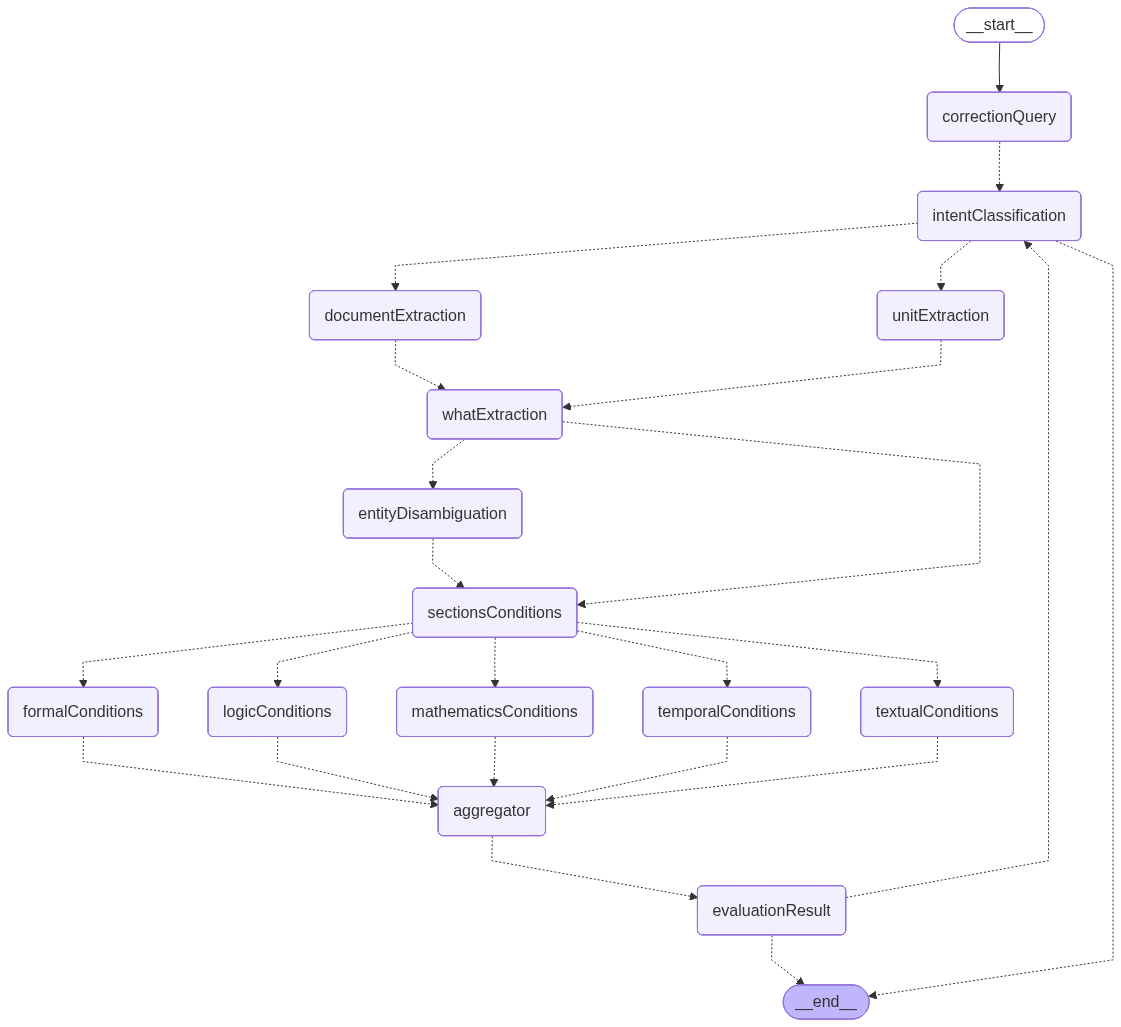
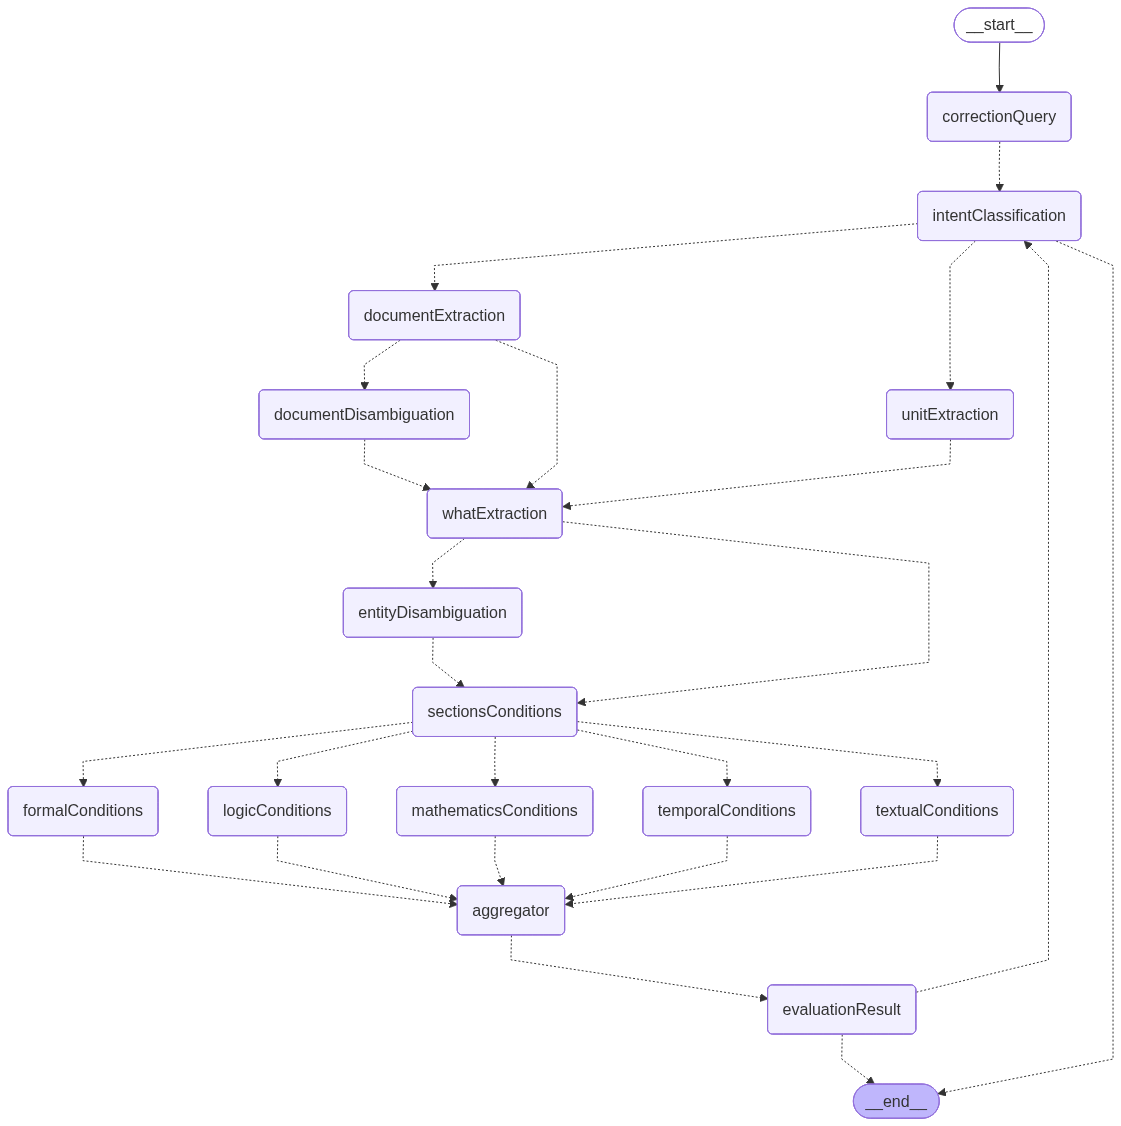
Added Document Disambiguation in case of ["contesto"] during Document Extraction

diff --git a/rewriting_system/graph.py b/rewriting_system/graph.py
@@ -7,8 +7,11 @@ from langgraph.graph import StateGraph
 from langchain_core.prompts import ChatPromptTemplate
 from langchain_core.output_parsers import StrOutputParser
 
+from storage import Storage
+
 import os
 import time
+import re
 
 import sys
 from pathlib import Path
@@ -19,6 +22,8 @@ from utils.config_graph import Config
 
 project_root = Path(__file__).resolve().parent.parent
 cfg = Config.get_instance()
+
+r = Storage()
 
 class State(TypedDict):
     query: str
@@ -71,16 +76,50 @@ def intentClassification(state: State) -> Command[Literal["documentExtraction", 
         update={"command": result},
     )
 
-def documentExtraction(state: State) -> Command[Literal["whatExtraction"]]:
+def documentExtraction(state: State) -> Command[Literal["whatExtraction", "documentDisambiguation"]]:
     result = chain("3 - DocumentExtraction", 
                    {"query": state["query"]}, 
                    state)
     
     result = cfg.str_in_list(result)
 
+    goto = "whatExtraction"
+    if "contesto" in result:
+        goto = "documentDisambiguation"
+    else:
+        r.write(state["thread_id"], state["query"], result)
+        
+    return Command(
+        goto=goto,
+        update={"documents": result},
+    )
+
+def documentDisambiguation(state: State) -> Command[Literal["whatExtraction"]]:
+    chat = r.read(state["thread_id"])
+    
+    if not (chat == []):
+        chat_str = ""
+        
+        for i in range(len(chat)):
+            chat_str += f"""
+            RICHIESTA/DOMANDA {i}
+            - time: {chat[i]["time"]}
+            - query: \"{chat[i]["query"]}\""
+            - ID doc input: \"{chat[i]["docRef"]}\"
+            - ID doc response: \"{chat[i]["docOut"]}\""
+            
+            
+            """
+            doc = chain("3a - DocumentDisambiguation", {"chat": chat, "query": state["query"]}, state)
+            doc = cfg.str_in_list(doc) 
+    else:
+        doc = ["sentenza di primo grado", "sentenza di secondo grado", "memoria giudiziale", "ricorso giudiziale"]
+    
+    r.write(state["thread_id"], state["query"], doc)
+    
     return Command(
         goto="whatExtraction",
-        update={"documents": result},
+        update={"documents": doc},
     )
     
 def unitExtraction(state: State) -> Command[Literal["whatExtraction"]]:
@@ -260,6 +299,7 @@ def build_graph():
     graph_builder.add_node("intentClassification", intentClassification)
     
     graph_builder.add_node("documentExtraction", documentExtraction)
+    graph_builder.add_node("documentDisambiguation", documentDisambiguation)
     
     graph_builder.add_node("unitExtraction", unitExtraction)
     
@@ -285,7 +325,7 @@ def chain(name: str, input: dict, state: State) -> str:
 
     template = open(path, "r").read()
 
-    if state["response"] is not None:
+    if not (state["response"] == {}):
         response_clean = str(state['response']).replace("{", "(").replace("}", ")")
         template = f"[FEEDBACK]\nconsidera che per la query \"{state['query']}\" è già stato generato un possibile output:\n{response_clean}\nquesto output ha ricevuto però una valutazione non sufficiente per i nostri standard in quanto \"{state['feedback']}\".\nnon devi riscostruire l'intero output, ma nella risposta tieni conto del feedback.\n[PROMPT]\n{template}"
 

diff --git a/rewriting_system/storage.py b/rewriting_system/storage.py
@@ -1,0 +1,30 @@
+import redis
+import json
+from datetime import datetime
+from typing import List, Dict, Any, Optional
+
+class Storage:
+    def __init__(self):
+        self.r = {}
+
+    def read(self, key: str) -> List[Dict[str, Any]]:
+        if not (key in self.r.keys()):
+            return []
+        
+        return self.r.get(key)
+
+    def write(self, key: str, query: str, docRef: str, data: Optional[List[Dict[str, Any]]] = None):
+        if data is None:
+            data = self.read(key)
+
+        data.append({
+            "time": datetime.now().isoformat(),
+            "query": query,
+            "docRef": docRef,
+            "docOut": f"doc_{len(data)}"
+        })
+
+        self.r.update({key: data})
+
+    def clear(self, key: str):
+        self.r.update({key: []})
